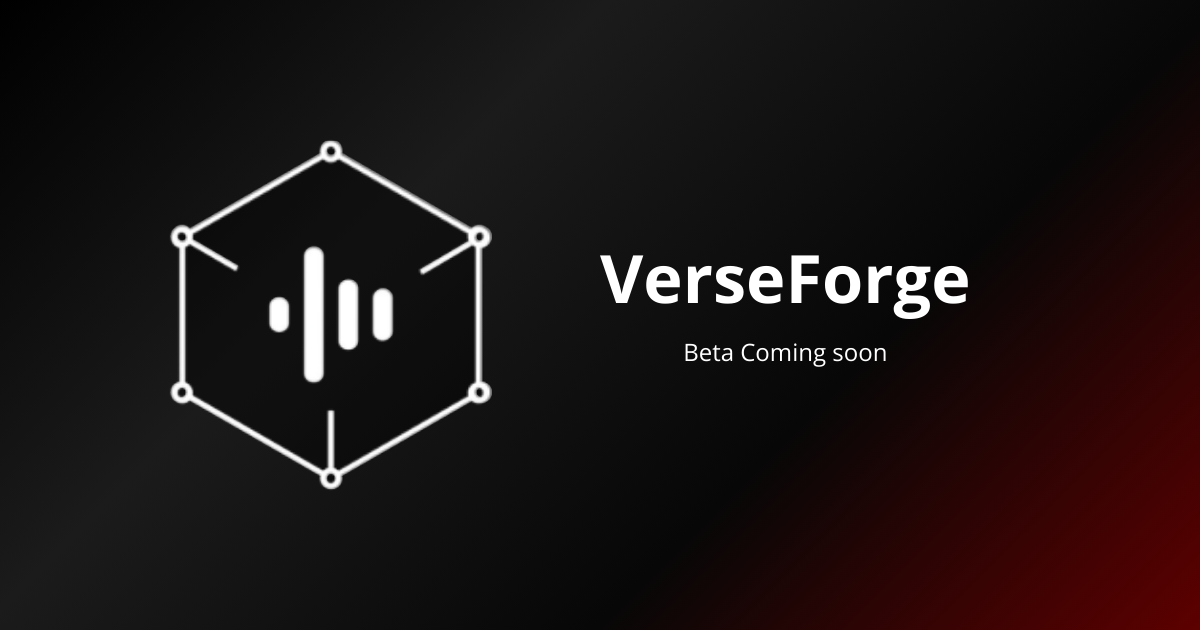
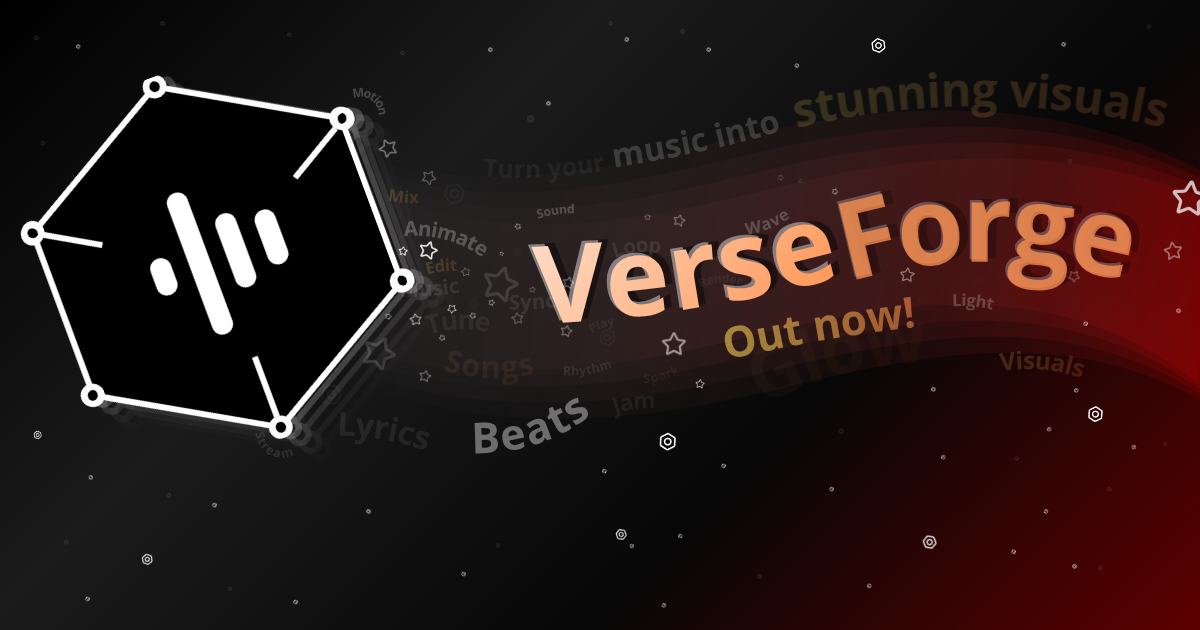
download page

diff --git a/index.html b/index.html
@@ -48,9 +48,9 @@
                 Community
                 <img src="img/discord.svg" alt="External Link Icon" />
             </a></li>
-            <li><a class="after-other fade-in hide mobile-join" href="waitlist.html">Join Waitlist</a></li>
+            <li><a class="after-other fade-in hide mobile-join" href="download.html">Download</a></li>
         </ul>
-        <a class="cta after-other fade-in hide" href="waitlist.html">Join Waitlist</a>
+        <a class="cta after-other fade-in hide" href="download.html">Download</a>
         <script src="js/nav.js"></script>
     </nav>
 
@@ -61,7 +61,7 @@
                 <h1>The Next Generation of Music Visuals</h1>
                 <p>Sync Lyrics with Music & Customize Your Experience</p>
                 <div id="button-container">
-                    <a class="cta" href="waitlist.html">Join Waitlist</a>
+                    <a class="cta" href="download.html">Download for Windows</a>
                     <a class="secondary" href="features.html">Learn more</a>
                 </div>
             </div>
@@ -175,16 +175,16 @@
                 <p>VerseForge is a desktop app that lets you <strong>sync lyrics</strong> with music in real time, <strong>animate them visually, and fully customize the experience</strong> with themes, code, or visual editing.</p>
             </details>
             <details class="faq-item after-other fade-in">
-                <summary>Will it work with Spotify?</summary>
-                <p><strong>Yes!</strong> Integration is planned via desktop audio capture and Windows API <strong>for every windows supported streaming service.</strong></p>
+                <summary>Does it work with Spotify?</summary>
+                <p><strong>Yes!</strong> Integration works via desktop audio capture and Windows API <strong>for every Windows supported streaming service.</strong></p>
             </details>
             <details class="faq-item after-other fade-in">
                 <summary>Can I make my own themes?</summary>
-                <p><strong>Yes!</strong> A built-in editor lets you customize everything with visuals or code.</p>
+                <p><strong>Yes!</strong> A built-in editor will let you customize everything with visuals or code.</p>
             </details>
             <details class="faq-item after-other fade-in">
                 <summary>Is it free?</summary>
-                <p><strong>There will be a free version with access to all core features.</strong><br>
+                <p><strong>Currently there is only a free version with access to all core features.</strong><br>
                 Premium users will get access to advanced tools, more customization options, cloud sync, and upcoming experimental features.<br>
                 The free plan is fully usable, but upgrading unlocks the full potential of VerseForge.</p>
             </details>
@@ -192,7 +192,7 @@
     </section>
 
     <section class="container" id="waitlist-section">
-        <a class="cta" href="waitlist.html">Get Early Access</a>
+        <a class="cta" href="download.html">Get Started</a>
         <a class="secondary" href="https://discord.gg/dPGXSbguW5" target="_blank">Have questions? Join Discord →</a>
     </section>
 
@@ -214,7 +214,7 @@
         <div class="footer-bottom">
             <p>Developed by HeatsSoft</p>
             <p>&copy; 2025 VerseForge. All rights reserved.</p>
-            <p class="legal-note">By joining the waitlist, you agree to be contacted about updates. No data is shared with third parties.</p>
+            <p class="legal-note">By joining the refferal program, you agree to be contacted about updates. No data is shared with third parties.</p>
         </div>
     </footer>
 

diff --git a/download.html b/download.html
@@ -1,0 +1,64 @@
+<!DOCTYPE html>
+<html lang="en">
+<head>
+<meta charset="UTF-8">
+<meta name="viewport" content="width=device-width, initial-scale=1.0">
+<title>Download VerseForge</title>
+<link rel="stylesheet" href="styles/main.css">
+</head>
+<body>
+<nav>
+        <div class="logo">
+            <a class="after-other fade-in hide" href="index.html"><img src="img/VerseForge_no_bg.png" alt="VerseForge Logo">
+                <span class="logo-text">VerseForge</span>
+            </a>
+        </div>
+        <div class="menu-toggle"><img src="icons/menu.svg" alt="Menu" /></div>
+
+        <ul class="nav-links">
+            <li><a class="after-other fade-in hide" href="index.html">Home</a></li>
+            <li><a class="after-other fade-in hide" href="features.html">Features</a></li>
+            <li><a class="after-other fade-in hide" href="refferal.html">Refferal program</a></li>
+            <li><a href="https://discord.gg/dPGXSbguW5" target="_blank" class="nav-external after-other fade-in hide">
+                Community
+                <img src="img/discord.svg" alt="External Link Icon" />
+            </a></li>
+            <li><a class="after-other fade-in hide mobile-join" href="download.html">Download</a></li>
+        </ul>
+        <a class="cta after-other fade-in hide" href="download.html">Download</a>
+        <script src="js/nav.js"></script>
+</nav>
+<div class="download-wrapper">
+    <main class="popcard" role="main">
+        <h1>Thank you for downloading VerseForge!</h1>
+        <p class="lead">Your download should start automatically. If not, click the button below:</p>
+    
+        <div class="actions">
+            <a class="btn btn-primary" id="manualDownload" href="https://github.com/heatssoftware/VerseForgeMVP/releases/download/setup/VerseForgeSetup.exe" download>Download Again</a>
+        </div>
+    
+        <div class="note" aria-live="polite">
+            <strong>Windows SmartScreen & unsigned/unregistered apps</strong>
+            <p>If Windows displays a SmartScreen warning that says "Windows protected your PC" or that the app is from an unknown publisher, this is normal for new or unsigned builds.</p>
+            <p>To run the installer safely:</p>
+            <ul class="steps">
+                <li>Click "More info" on the SmartScreen dialog.</li>
+                <li>Choose "Run anyway".</li>
+            </ul>
+        </div>
+    </main>
+</div>
+
+<script>
+window.addEventListener('DOMContentLoaded', function(){
+    const link = document.createElement('a');
+    link.href = 'https://github.com/heatssoftware/VerseForgeMVP/releases/download/setup/VerseForgeSetup.exe';
+    link.download = 'VerseForgeSetup.exe';
+    document.body.appendChild(link);
+    link.click();
+    document.body.removeChild(link);
+});
+</script>
+<script src="js/scroll-anim.js"></script>
+</body>
+</html>

diff --git a/refferal.html b/refferal.html
@@ -27,18 +27,18 @@
                 Community
                 <img src="img/discord.svg" alt="External Link Icon" />
             </a></li>
-            <li><a class="after-other fade-in hide mobile-join" href="waitlist.html">Join Waitlist</a></li>
+            <li><a class="after-other fade-in hide mobile-join" href="download.html">Download</a></li>
         </ul>
-        <a class="cta after-other fade-in hide" href="waitlist.html">Join Waitlist</a>
+        <a class="cta after-other fade-in hide" href="download.html">Download</a>
         <script src="js/nav.js"></script>
-    </nav>
+</nav>
 
   <section class="referral-hero">
     <div class="referral-content">
       <h1>Share VerseForge. Earn Rewards.</h1>
-      <p>Invite your friends and get free months of Premium for each successful referral.</p>
+      <p>Invite your friends and get free months of Premium for each successful referral in future versions.</p>
       <div class="container">
-          <a href="waitlist.html" class="cta">Join the Waitlist</a>
+          <a href="waitlist.html" class="cta">Join the Program</a>
       </div>
     </div>
     <div class="referral-visual">
@@ -48,7 +48,7 @@
 
   <section class="referral-details">
     <h2>How it works</h2>
-    <p>After joining the waitlist, you’ll receive your unique referral link. Share it with others and unlock rewards when they join too.</p>
+    <p>Once you join, you’ll get your unique referral link. Share it with friends and earn free Premium access for future versions when they sign up too.</p>
 
     <table class="referral-table fade-in after-other centered_table">
         <thead>
@@ -80,6 +80,22 @@
     <a href="/waitlist.html" class="features-cta">Start Referring →</a>
   </section>
 
+  <footer class="footer fade-in">
+        <div class="footer-top">
+            <p class="footer-brand">VerseForge</p>
+            <div class="social-media-links">
+                <a href="https://discord.gg/dPGXSbguW5" target="_blank"><img src="img/discord.svg" alt="Discord" /></a>
+                <a href="https://x.com/heatssoftware" target="_blank"><img src="img/x.svg" alt="X (Twitter)" /></a>
+                <a href="https://patreon.com/VerseForge" target="_blank"><img src="img/patreon.svg" alt="Patreon" /></a>
+            </div>
+        </div>
+
+        <div class="footer-bottom">
+            <p>Developed by HeatsSoft</p>
+            <p>&copy; 2025 VerseForge. All rights reserved.</p>
+            <p class="legal-note">By joining the refferal program, you agree to be contacted about updates. No data is shared with third parties.</p>
+        </div>
+  </footer>
   <script src="js/scroll-anim.js"></script>
   <script src="js/save_ref.js"></script>
 </body>

diff --git a/styles/download.css b/styles/download.css
@@ -1,0 +1,118 @@
+.download-wrapper {
+  min-height: calc(100vh - 60px);
+  display: flex;
+  justify-content: center; /* horizontāli */
+  align-items: center;     /* vertikāli */
+  padding: 20px;           /* mazliet vietas apkārt */
+}
+
+main.popcard {
+  background: var(--bg-dark);
+  color: var(--text);
+  padding: 50px 30px;
+  border-radius: 16px;
+  width: 100%;
+  max-width: 600px;
+  text-align: center;
+  box-shadow: 0 8px 30px rgba(239, 239, 239, 0.2);
+  font-family: "Inter", sans-serif;
+}
+
+
+main.popcard h1 {
+  color: var(--primary);
+  font-size: 2rem;
+  margin-bottom: 20px;
+}
+
+main.popcard p, main.popcard .lead {
+  color: var(--text-muted);
+  font-size: 1rem;
+  line-height: 1.5;
+  margin-bottom: 25px;
+}
+
+.actions {
+  margin: 30px 0;
+}
+
+.actions .btn-primary {
+  border: none;
+  background-color: var(--primary);
+  color: var(--bg-dark);
+  border-radius: 8px;
+  padding: 14px 28px;
+  font-weight: 600;
+  font-size: 1rem;
+  text-decoration: none;
+  display: inline-block;
+  margin: 10px 5px;
+  transition: background-color 0.3s ease, transform 0.2s ease;
+}
+.actions .btn-primary:hover {
+  background-color: var(--secondary);
+  transform: translateY(-2px);
+}
+
+.actions .btn-ghost {
+  border: 2px solid var(--border-muted);
+  background: transparent;
+  color: var(--text-muted);
+  border-radius: 8px;
+  padding: 12px 24px;
+  font-size: 0.95rem;
+  text-decoration: none;
+  display: inline-block;
+  margin: 10px 5px;
+  transition: background-color 0.3s ease, color 0.3s ease, transform 0.2s ease;
+}
+.actions .btn-ghost:hover {
+  background-color: var(--border-muted);
+  color: var(--text);
+  transform: translateY(-2px);
+}
+
+.note {
+  background: var(--bg-light);
+  color: var(--text-muted);
+  padding: 25px 20px;
+  border-radius: 12px;
+  margin-top: 40px;
+  font-size: 0.95rem;
+  line-height: 1.5;
+  text-align: left;
+}
+
+.note strong {
+  color: var(--primary);
+}
+
+.steps li {
+  margin-bottom: 8px;
+  list-style-type: disc;
+  margin-left: 20px;
+}
+
+
+@media (max-width: 600px) {
+  .body {
+    background: var(--bg-dark);
+  }
+  .download-wrapper {
+    padding: 0;
+    margin: 0;
+  }
+  main.popcard {
+    padding: 30px 20px;
+    border: none;
+    box-shadow: none;
+    border-radius: 0;
+    height: 100%;
+  }
+
+  .actions .btn-primary, .actions .btn-ghost {
+    width: 100%;
+    box-sizing: border-box;
+    text-align: center;
+  }
+}

diff --git a/waitlist.html b/waitlist.html
@@ -31,9 +31,9 @@
                 Community
                 <img src="img/discord.svg" alt="External Link Icon" />
             </a></li>
-            <li><a class="after-other fade-in hide mobile-join" href="waitlist.html">Join Waitlist</a></li>
+            <li><a class="after-other fade-in hide mobile-join" href="download.html">Download</a></li>
         </ul>
-        <a class="cta after-other fade-in hide" href="waitlist.html">Join Waitlist</a>
+        <a class="cta after-other fade-in hide" href="download.html">Download</a>
         <script src="js/nav.js"></script>
     </nav>
 
@@ -41,16 +41,17 @@
         <div class="waitlist-logo">
             <img src="img/VerseForge_no_bg.png" alt="VerseForge Logo" />
         </div>
-        <h1>Join the Waitlist</h1>
-        <p><strong>Be the first to try VerseForge when it launches.</strong><br>Get exclusive early access, test new features before anyone else, and help shape the future of music visuals.</p>
+        <h1>Join the Refferal Program</h1>
+        <p><strong>Get Premium access for free!</strong><br>Share your referral link with friends and unlock upcoming Premium features as they join.</p>
 
         <form id="waitlist-form">
             <input type="text" placeholder="Your email" id="email-input" />
             <button type="submit">Join</button>
         </form>
+        <p>or</p>
         <button class="google-btn" type="button" onclick="signInWithGoogle()">
             <img src="icons/google_logo.svg" alt="Google logo" />
-            Join waitlist with Google
+            Join with Google
         </button>
 
 

diff --git a/features.html b/features.html
@@ -27,9 +27,9 @@
                 Community
                 <img src="img/discord.svg" alt="External Link Icon" />
             </a></li>
-            <li><a class="after-other fade-in hide mobile-join" href="waitlist.html">Join Waitlist</a></li>
+            <li><a class="after-other fade-in hide mobile-join" href="download.html">Download</a></li>
         </ul>
-        <a class="cta after-other fade-in hide" href="waitlist.html">Join Waitlist</a>
+        <a class="cta after-other fade-in hide" href="download.html">Download</a>
         <script src="js/nav.js"></script>
     </nav>
 
@@ -78,11 +78,10 @@
 
   <section class="features-cta-block">
     <h2>Ready to transform your lyric visuals?</h2>
-    <a href="/waitlist.html" class="cta">Join the Waitlist</a>
+    <a href="/download.html" class="cta">Try it out</a>
   </section>
 
-
-  <footer class="footer fade-in">
+<footer class="footer fade-in">
         <div class="footer-top">
             <p class="footer-brand">VerseForge</p>
             <div class="social-media-links">
@@ -95,9 +94,9 @@
         <div class="footer-bottom">
             <p>Developed by HeatsSoft</p>
             <p>&copy; 2025 VerseForge. All rights reserved.</p>
-            <p class="legal-note">By joining the waitlist, you agree to be contacted about updates. No data is shared with third parties.</p>
+            <p class="legal-note">By joining the refferal program, you agree to be contacted about updates. No data is shared with third parties.</p>
         </div>
-    </footer>
+</footer>
 
 
   <script src="js/scroll-anim.js"></script>

diff --git a/styles/main.css b/styles/main.css
@@ -2,6 +2,7 @@
 @import url("home.css");
 @import url("waitlist.css");
 @import url("refferal.css");
+@import url("download.css");
 
 /* parts */
 @import url("base.css");
